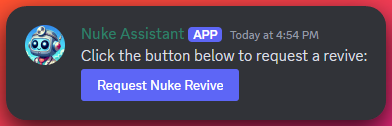
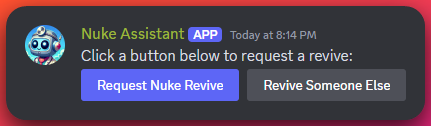
Update nuke assistant docs for new commands

diff --git a/docs/reviving/nuke-assistant-revive-bot.md b/docs/reviving/nuke-assistant-revive-bot.md
@@ -38,3 +38,13 @@ Want to request a revive? Use this command to request a revive from us. You can 
 Want to make a revive me button? Use this command to get a button that you can use to request a revive from us. You must have the "Manage Channel" permission in whatever channel you are trying to use this command in to insert the button. This is to ensure there isn't accidental usage of the button occuring and that whoever is adding it also can remove it if needed. The button works the same as running `/revive`.
 
 ![Revive Me Button](./nuke_assistant_request_button.png)
+
+### `/make-nuke-reviving-service-embed <?include_button>`
+
+Want to include an informational embed about the Nuke Reviving Service in your server? You can use this command to get an embed that you can use to inform your members about the Nuke Reviving Service. If you include the `include_button` parameter, it will also include a button that can be used to request a revive or request a revive on someone else. Including the buttons includes the same buttons as in the previous command. You must have the "Manage Channel" permission in whatever channel you are trying to use this command in to insert the embed. This is to ensure there isn't accidental usage of the embed occuring and that whoever is adding it also can remove it if needed.
+
+![Reviving Service Embed](./nuke_assistant_embedded_info.png)
+
+:::note[Note]
+If there are ever any updates to the informational embed message or revive buttons, the bot will automatically update the associated messages so that you don't need to worry about updating them yourself.
+:::
